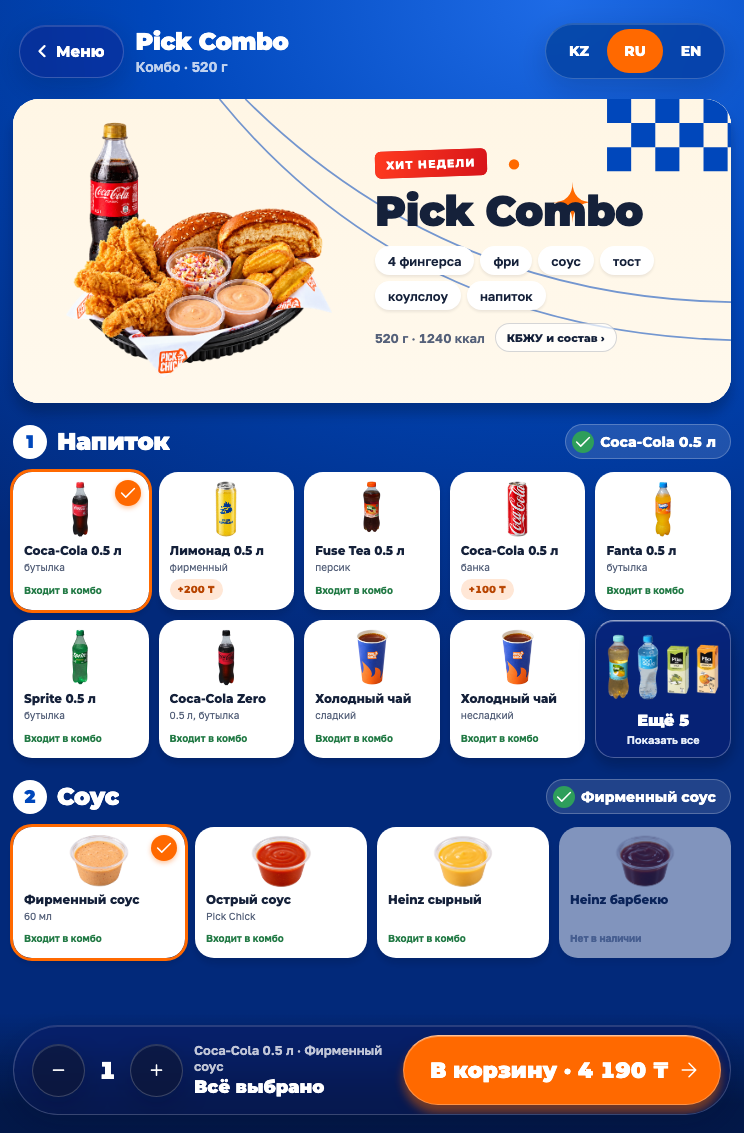
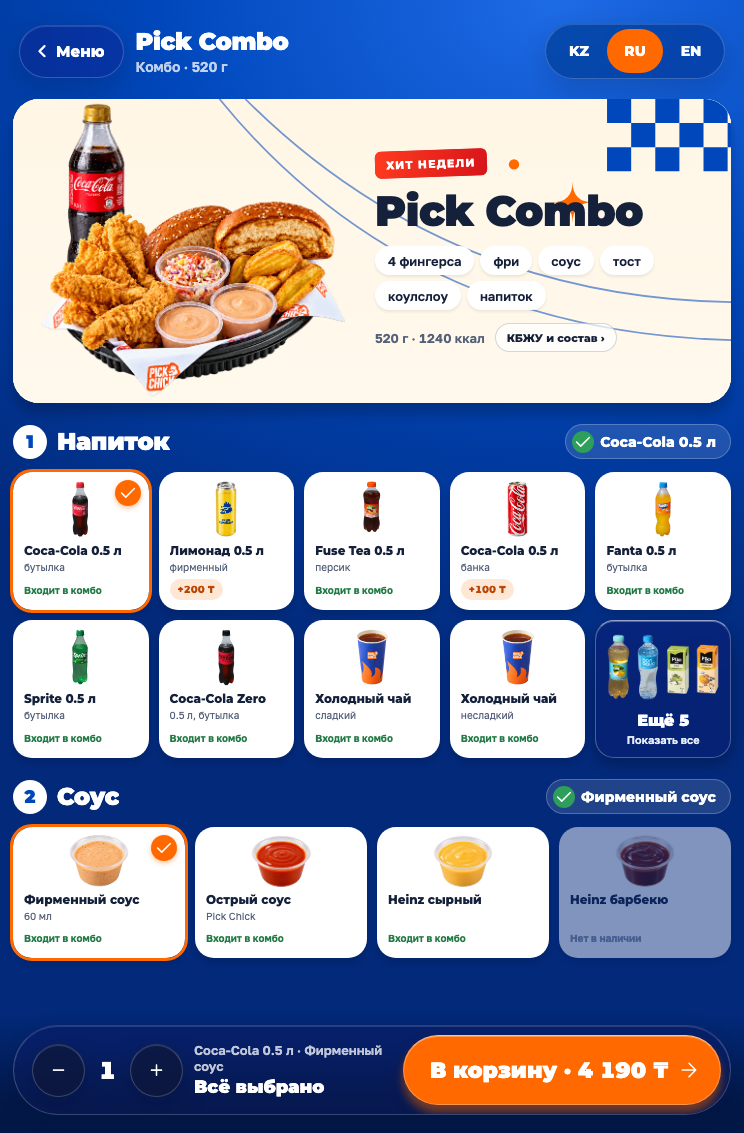
Record larger Pick Combo preview and refreshed kiosk 19 archive

Changed region(s): [[0.0618, 0.0927, 0.4637, 0.3707]]

diff --git a/docs/operations/kiosk-glass-polish-2026-10-14.md b/docs/operations/kiosk-glass-polish-2026-10-14.md
@@ -10,7 +10,12 @@
 1. В активном QR-пути убраны имя и логотип Kaspi: «Оплата по QR», инструкция для приложения банка,
    нейтральное ожидание на RU/KZ/EN. Внутренние method IDs и testID сохраняются.
 2. 18 изображений с прозрачным фоном и детализацией от 1200 px; четыре фона карточек переведены
-   в SVG. Фото еды находятся над узором без multiply. Оригиналы сохранены.
+   в SVG. Фото еды находятся над узором без multiply. Оригиналы сохранены. По отдельному
+   замечанию фото Pick Combo повторно обработано в imagegen (1254×1254 PNG с alpha),
+   увеличено примерно на 15% на странице товара и в меню за счёт уменьшения полей.
+   Для Pick Combo выбирается hero-вариант опубликованного фото вместо card; удалённые
+   фото сохраняют приоритет, состав и цены не меняются. Страница не прокручивается
+   на трёх проверенных размерах iPad, текст и кнопки остаются читаемыми.
 3. Общий стеклянный материал применён к действиям, количеству, шторке, корзине и переходам.
    Оранжевый акцент владельца сохранён; системное сокращение анимации работает.
 4. «Ещё N» - стеклянная плитка с крупным превью скрытых напитков и явной подписью «Показать все».
@@ -54,19 +59,19 @@
 ## Доставка
 
 Последняя подтверждённая установка на физическом iPad - **0.1.0 (18)**.
-Окончательный Release archive **0.1.0 (19)** с крупными соусами и новым превью «Ещё N»
-собран из чистого `334de8f43b91bf7976cac4c55f51712fa01f7c05`. Bundle ID `kz.pickchick.kiosk`
+Окончательный Release archive **0.1.0 (19)** с крупным Pick Combo, соусами и превью «Ещё N»
+собран из чистого `7611b19a9bf109a4e9d73c449d793c3b1019c12e`. Bundle ID `kz.pickchick.kiosk`
 и версия 0.1.0 сохранены. Locked install, prebuild, CocoaPods и archive прошли.
 `codesign --verify --deep --strict` успешен; application/keychain identifiers, Team
 и список устройств совместимы с установленной 18.
 
 Переменные сохранены: `EXPO_PUBLIC_KIOSK_COMMERCIAL=1`, `EXPO_NO_DOTENV=1`;
 других публичных переменных не добавлено. Приватный release label:
-`kiosk-glass-polish-20261014-19-r5`. Он заменяет предварительные архивы 19.
+`kiosk-glass-polish-20261014-19-r6`. Он заменяет предварительные архивы 19.
 
[6 lines of base64/hex data omitted]
 
 Владелец подключил кабель, но подтвердил, что iPad только заряжается и не виден в Finder.
 Повторные проверки Mac показывают disconnected/unavailable; установки 19 и запуска

diff --git a/docs/project-status.md b/docs/project-status.md
@@ -1,11 +1,11 @@
 ## 14 октября: киоск - новые фото, стеклянные действия и QR без названия банка
 
 В PR #245 подготовлены замечания владельца: фотографии над фоном, 60 мл и отдельные
-изображения соусов с одинаковым ракурсом и видимым размером, заметный минус, крупные фото напитков в «Ещё N», исправленные допы, единый стеклянный материал,
+изображения соусов с одинаковым ракурсом и видимым размером, заметный минус, крупные фото напитков в «Ещё N», увеличенный Pick Combo, исправленные допы, единый стеклянный материал,
 удалены «?» и «Позвать сотрудника», обновлён «Начать заново». QR-подписи нейтральные;
 банковский адаптер, каталог и цены не изменены. 224 unit tests, typecheck/lint,
 Storybook/axe, карточка товара и допы на трёх размерах iPad прошли.
-Release 0.1.0 (19) собран из `334de8f4`, подпись и совместимость с установленной 18 проверены.
+Release 0.1.0 (19) собран из `7611b19a`, подпись и совместимость с установленной 18 проверены.
 Последняя установленная версия - 18; iPad заряжается, но недоступен для передачи данных,
 19 ещё не установлена и не принята. Нативная проверка на чистом симуляторе пропущена
 из-за недоступной настройки устройства; она не заменяет проверку на iPad. [Протокол](operations/kiosk-glass-polish-2026-10-14.md).

diff --git a/apps/kiosk/assets/v3/hd/README.md b/apps/kiosk/assets/v3/hd/README.md
@@ -17,3 +17,14 @@ Sources, pixel dimensions and SHA-256 values are in `provenance.json`. Outputs h
 1200 pixels on their long side. Existing owner-supplied bottled-drink photographs remain in
 `../../drinks`. No artificial HD claim is made for arbitrary future
 remote catalog assets. Card background geometry lives in `../bg/*.svg` for resolution-independent rendering.
+
+## Pick Combo follow-up
+
+Built-in imagegen retouched the previous cut-out on 14 October. Output: `pick-combo.png`,
+1254×1254 RGBA. The source and previous hash remain in provenance; this is detail retouching,
+not a claim of a 2048 px output. The card uses more of its existing photo area and selects
+the hero rendition for remote media.
+
+Prompt used:
+
+> Edit the supplied PickChick Pick Combo product photograph for a large iPad kiosk card. This is a fidelity-preserving resolution/detail enhancement, not a new meal or rearrangement. Preserve EXACTLY the photographed food quantities, positions, bottle with gold cap and Coca-Cola branding, sesame toast, crispy chicken, potatoes, two sauce cups, coleslaw, black tray, PickChick printed paper, camera angle and silhouette. Improve fine realistic photographic clarity and natural microtexture, avoid oversharpening, oily plastic appearance or invented ingredients. Preserve readable original packaging text. Deliver the highest available resolution, ideally 2048x2048 or larger, clean true transparent alpha background, the whole product fully visible with a narrow 3% clear margin. No drop shadow, no extra props, no drawn background, no additional text. The source image is the exact edit target and composition reference.
